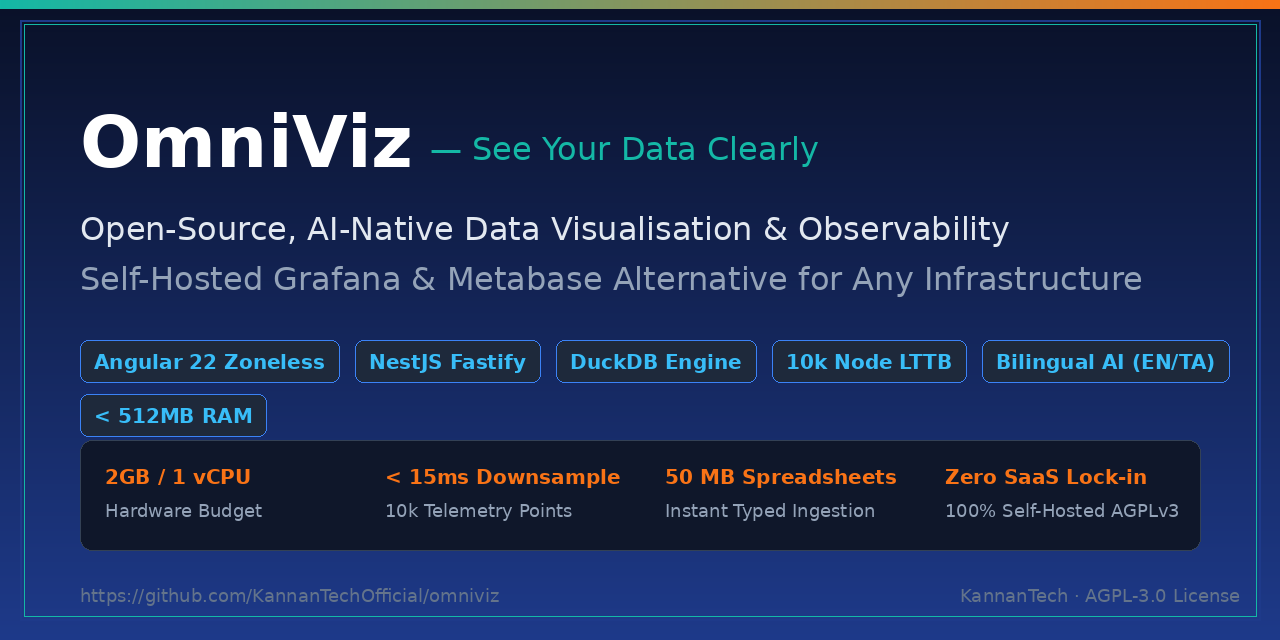
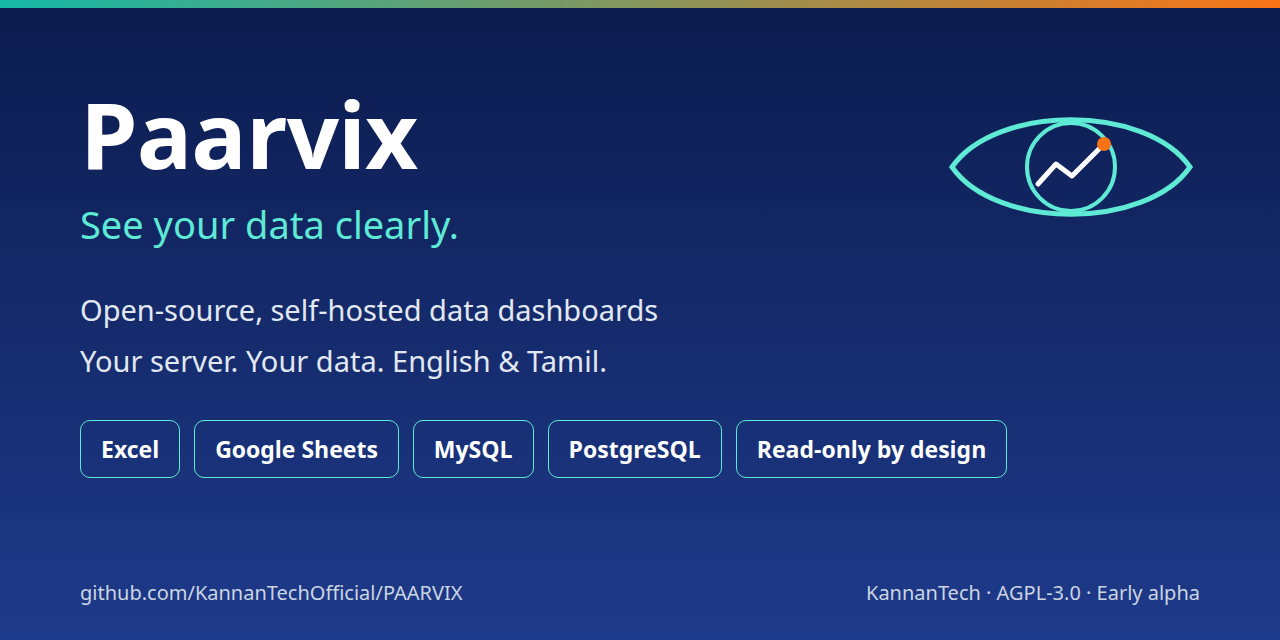
docs: use the Paarvix name and repository address

diff --git a/README.md b/README.md
@@ -1,10 +1,10 @@
 <div align="center">
 
-<img src=".github/assets/social-preview.png" alt="OmniViz — Open-Source AI-Native Analytics & Observability Platform" width="100%">
+<img src=".github/assets/social-preview.png" alt="Paarvix — open-source, self-hosted data dashboards" width="100%">
 
-# OmniViz
+# Paarvix
 
-### See your data clearly. (Powered by Paarvix Core)
+### See your data clearly.
 
 **Open-source, AI-native data visualisation, analytics, and observability platform.**  
 Self-hosted Grafana & Metabase alternative. Connect Excel, Google Sheets, MySQL, MariaDB, or PostgreSQL on your own server with zero data team, zero cloud lock-in, and zero per-user fees.
@@ -13,12 +13,12 @@ Self-hosted Grafana & Metabase alternative. Connect Excel, Google Sheets, MySQL,
 [![Status: alpha](https://img.shields.io/badge/status-alpha-orange.svg)](docs/roadmap.md)
 [![Built with Angular](https://img.shields.io/badge/Angular-22-dd0031.svg)](https://angular.dev)
 [![Built with NestJS](https://img.shields.io/badge/NestJS-12-e0234e.svg)](https://nestjs.com)
-[![GitHub Discussions](https://img.shields.io/badge/Discussions-Join-teal.svg)](https://github.com/KannanTechOfficial/omniviz/discussions)
-[![Wiki Documentation](https://img.shields.io/badge/Docs-Wiki-purple.svg)](https://github.com/KannanTechOfficial/omniviz/wiki)
+[![GitHub Discussions](https://img.shields.io/badge/Discussions-Join-teal.svg)](https://github.com/KannanTechOfficial/PAARVIX/discussions)
+[![Wiki Documentation](https://img.shields.io/badge/Docs-Wiki-purple.svg)](https://github.com/KannanTechOfficial/PAARVIX/wiki)
 
-[Getting Started](docs/wiki/Getting-Started.md) · [Architecture](docs/wiki/Architecture.md) · [Observability Engine](docs/wiki/Observability-and-Scaling.md) · [Data Sources](docs/wiki/Data-Sources-and-Connectors.md) · [Wiki](https://github.com/KannanTechOfficial/omniviz/wiki) · [Discussions](https://github.com/KannanTechOfficial/omniviz/discussions)
+[Getting Started](docs/wiki/Getting-Started.md) · [Architecture](docs/wiki/Architecture.md) · [Observability Engine](docs/wiki/Observability-and-Scaling.md) · [Data Sources](docs/wiki/Data-Sources-and-Connectors.md) · [Wiki](https://github.com/KannanTechOfficial/PAARVIX/wiki) · [Discussions](https://github.com/KannanTechOfficial/PAARVIX/discussions)
 
-![OmniViz Data Sources preview](docs/assets/data-sources.png)
+![Paarvix Data Sources preview](docs/assets/data-sources.png)
 
 </div>
 
@@ -26,9 +26,9 @@ Self-hosted Grafana & Metabase alternative. Connect Excel, Google Sheets, MySQL,
 
 ---
 
-## What is OmniViz?
+## What is Paarvix?
 
-OmniViz is an open-source, AI-native analytics and observability platform designed to give organisations instant clarity over their operational data and telemetry. Powered by the **Paarvix Core** engine (*Paarvai* / பார்வை, meaning vision in Tamil), OmniViz eliminates expensive BI and monitoring stacks by running fully on your own infrastructure on as little as **2 GB RAM and 1 vCPU**.
+Paarvix is an open-source, AI-native analytics and observability platform designed to give organisations instant clarity over their operational data and telemetry. Powered by the **Paarvix Core** engine (*Paarvai* / பார்வை, meaning vision in Tamil), Paarvix eliminates expensive BI and monitoring stacks by running fully on your own infrastructure on as little as **2 GB RAM and 1 vCPU**.
 
 It is engineered for both non-technical decision makers (principals, shop owners, hospital admins) and engineers needing real-time cluster telemetry without JVM bloat or SaaS pricing.
 
@@ -59,9 +59,9 @@ It is engineered for both non-technical decision makers (principals, shop owners
 
 ---
 
-## OmniViz vs Other Platforms
+## Paarvix vs Other Platforms
 
-| Feature | OmniViz | Grafana | Metabase | Apache Superset |
+| Feature | Paarvix | Grafana | Metabase | Apache Superset |
 |:---|:---:|:---:|:---:|:---:|
 | **Server Footprint** | **< 512 MB RAM** | Moderate | Heavy (JVM 2GB+) | Heavy (Python 2GB+) |
 | **Setup Time** | **< 2 minutes** | 30+ minutes | 15 minutes | 45+ minutes |
@@ -76,11 +76,11 @@ It is engineered for both non-technical decision makers (principals, shop owners
 
 ## Quick Start (Docker)
 
-Run OmniViz locally or on any cloud server:
+Run Paarvix locally or on any cloud server:
 
 ```bash
-git clone https://github.com/KannanTechOfficial/omniviz.git
-cd omniviz
+git clone https://github.com/KannanTechOfficial/PAARVIX.git
+cd PAARVIX
 ./install.sh
 ```
 
@@ -99,8 +99,8 @@ Manage lifecycle:
 
 ```bash
 # Clone the repository
-git clone https://github.com/KannanTechOfficial/omniviz.git
-cd omniviz
+git clone https://github.com/KannanTechOfficial/PAARVIX.git
+cd PAARVIX
 
 # Install dependencies
 npm install
@@ -120,7 +120,7 @@ npm run dev:web
 
 ## Documentation & Wiki
 
-Comprehensive technical guides are available in the [OmniViz Wiki](https://github.com/KannanTechOfficial/omniviz/wiki) and repository:
+Comprehensive technical guides are available in the [Paarvix Wiki](https://github.com/KannanTechOfficial/PAARVIX/wiki) and repository:
 - [Architecture & Columnar DataFrames](docs/wiki/Architecture.md)
 - [Data Sources & Security Sandboxing](docs/wiki/Data-Sources-and-Connectors.md)
 - [10,000-Node Observability & Downsampling](docs/wiki/Observability-and-Scaling.md)
@@ -131,14 +131,14 @@ Comprehensive technical guides are available in the [OmniViz Wiki](https://githu
 
 ## Community & Contributing
 
-- Join discussions and feature ideas on [GitHub Discussions](https://github.com/KannanTechOfficial/omniviz/discussions).
-- Report bugs and security considerations via [Issues](https://github.com/KannanTechOfficial/omniviz/issues) and [SECURITY.md](SECURITY.md).
+- Join discussions and feature ideas on [GitHub Discussions](https://github.com/KannanTechOfficial/PAARVIX/discussions).
+- Report bugs and security considerations via [Issues](https://github.com/KannanTechOfficial/PAARVIX/issues) and [SECURITY.md](SECURITY.md).
 - Read [CONTRIBUTING.md](CONTRIBUTING.md) and [CODE_OF_CONDUCT.md](CODE_OF_CONDUCT.md) before submitting Pull Requests.
 
 ---
 
 ## License
 
-OmniViz is licensed under the [GNU Affero General Public License v3.0 (AGPLv3)](LICENSE).  
+Paarvix is licensed under the [GNU Affero General Public License v3.0 (AGPLv3)](LICENSE).  
 Copyright (C) 2026 Kannan / KannanTech (https://kannantech.com).  
 Commercial licensing and enterprise support: [paarvix@kannantech.com](mailto:paarvix@kannantech.com).

diff --git a/docs/wiki/Home.md b/docs/wiki/Home.md
@@ -1,8 +1,8 @@
-# Welcome to the OmniViz Wiki
+# Welcome to the Paarvix Wiki
 
-> **OmniViz** (powered by Paarvix core by [KannanTech](https://kannantech.com)) is an open-source, AI-native real-time data visualisation, analytics, and observability platform.
+> **Paarvix** by [KannanTech](https://kannantech.com) is an open-source, AI-native real-time data visualisation, analytics, and observability platform.
 
-OmniViz is designed as a modern, lightweight, self-hosted alternative to Grafana and Metabase. It empowers small businesses, colleges, factories, and growing organizations to connect their existing data (Excel, Google Sheets, MySQL, PostgreSQL) and observe complex infrastructure (up to 10,000+ Linux & Kubernetes nodes) without needing an expensive dedicated data team or per-user licensing fees.
+Paarvix is designed as a modern, lightweight, self-hosted alternative to Grafana and Metabase. It empowers small businesses, colleges, factories, and growing organizations to connect their existing data (Excel, Google Sheets, MySQL, PostgreSQL) and observe complex infrastructure (up to 10,000+ Linux & Kubernetes nodes) without needing an expensive dedicated data team or per-user licensing fees.
 
 ---
 
@@ -28,8 +28,8 @@ OmniViz is designed as a modern, lightweight, self-hosted alternative to Grafana
 
 ## 🔗 Useful Links
 
-* **Source Code:** [GitHub Repository](https://github.com/KannanTechOfficial/omniviz)
+* **Source Code:** [GitHub Repository](https://github.com/KannanTechOfficial/PAARVIX)
 * **Default Branch:** `Canary`
-* **Discussions:** [GitHub Discussions](https://github.com/KannanTechOfficial/omniviz/discussions)
-* **Issue Tracker:** [Bug Reports & Feature Requests](https://github.com/KannanTechOfficial/omniviz/issues)
+* **Discussions:** [GitHub Discussions](https://github.com/KannanTechOfficial/PAARVIX/discussions)
+* **Issue Tracker:** [Bug Reports & Feature Requests](https://github.com/KannanTechOfficial/PAARVIX/issues)
 

diff --git a/docs/wiki/Observability-and-Scaling.md b/docs/wiki/Observability-and-Scaling.md
@@ -1,6 +1,6 @@
 # Observability & 10,000-Node Scale
 
-OmniViz features an enterprise-grade observability engine designed to monitor large-scale distributed infrastructure (10,000+ Linux servers and Kubernetes worker nodes) without the massive operational complexity and RAM requirements of legacy observability stacks.
+Paarvix features an enterprise-grade observability engine designed to monitor large-scale distributed infrastructure (10,000+ Linux servers and Kubernetes worker nodes) without the massive operational complexity and RAM requirements of legacy observability stacks.
 
 ---
 
@@ -36,7 +36,7 @@ When viewing time-series data for a node over 24 hours, thousands of raw data po
 
 ## 🤖 Bilingual AI Observability Copilot
 
-OmniViz includes an AI-native root cause engine providing executive summaries and anomaly diagnoses in **English and Tamil (தமிழ்)**:
+Paarvix includes an AI-native root cause engine providing executive summaries and anomaly diagnoses in **English and Tamil (தமிழ்)**:
 
 * **Containerd Memory Leak (`node-4081`, US East):** Detects monotonically increasing RSS with swap thrashing at 2.1 GB/s. Recommends: `kubectl drain node-4081`.
 * **NVMe Storage Saturation (`node-1209`, Mumbai):** Flags uncompacted Kafka write queues at 96.5% disk fullness before node goes into `DiskPressure`.

diff --git a/.github/ISSUE_TEMPLATE.md b/.github/ISSUE_TEMPLATE.md
@@ -1,13 +1,13 @@
-# OmniViz Issue Template
+# Paarvix Issue Template
 
-Thank you for reporting an issue or suggesting an enhancement for **OmniViz**!
+Thank you for reporting an issue or suggesting an enhancement for **Paarvix**!
 
 Please use one of our specific issue forms if possible:
-- [Bug Report](https://github.com/KannanTechOfficial/omniviz/issues/new?template=bug_report.yml)
-- [Feature Request](https://github.com/KannanTechOfficial/omniviz/issues/new?template=feature_request.yml)
+- [Bug Report](https://github.com/KannanTechOfficial/PAARVIX/issues/new?template=bug_report.yml)
+- [Feature Request](https://github.com/KannanTechOfficial/PAARVIX/issues/new?template=feature_request.yml)
 
 For questions, discussions, or community help:
-- [GitHub Discussions](https://github.com/KannanTechOfficial/omniviz/discussions)
+- [GitHub Discussions](https://github.com/KannanTechOfficial/PAARVIX/discussions)
 
 ---
 
@@ -23,7 +23,7 @@ For questions, discussions, or community help:
 <!-- What did you expect to happen? -->
 
 ### Environment
-- **OmniViz Version**: (e.g. 0.1.0-alpha)
+- **Paarvix Version**: (e.g. 0.1.0-alpha)
 - **OS**: (Linux, macOS, Windows)
 - **Browser**: (Chrome, Firefox, Safari)
 - **Node.js**: (v20+)

diff --git a/docs/wiki/Architecture.md b/docs/wiki/Architecture.md
@@ -1,6 +1,6 @@
-# OmniViz System Architecture
+# Paarvix System Architecture
 
-OmniViz is engineered from the ground up as a **modular monolith** optimized for sub-second interactions, zero GC thrashing, and low hardware resource consumption.
+Paarvix is engineered from the ground up as a **modular monolith** optimized for sub-second interactions, zero GC thrashing, and low hardware resource consumption.
 
 ---
 
@@ -21,7 +21,7 @@ OmniViz is engineered from the ground up as a **modular monolith** optimized for
 ## 🏗 Monorepo Structure
 
 ```
-omniviz/
+paarvix/
 ├── apps/
 │   ├── api/             # NestJS Fastify API Gateway
 │   └── web/             # Angular 22 Single Page Application
@@ -37,7 +37,7 @@ omniviz/
 
 ## ⚡ Columnar DataFrame Architecture
 
-Unlike standard JSON arrays (`Array<Record<string, unknown>>`) which allocate millions of small heap objects and cause garbage collection stutter, OmniViz uses typed columnar vectors:
+Unlike standard JSON arrays (`Array<Record<string, unknown>>`) which allocate millions of small heap objects and cause garbage collection stutter, Paarvix uses typed columnar vectors:
 
 ```ts
 export interface Field<T = any> {

diff --git a/docs/wiki/_Sidebar.md b/docs/wiki/_Sidebar.md
@@ -1,4 +1,4 @@
-### OmniViz Documentation
+### Paarvix Documentation
 * **[Home](Home)**
 * **[Getting Started](Getting-Started)**
 * **[System Architecture](Architecture)**
@@ -8,7 +8,7 @@
 
 ---
 ### Community & Support
-* [GitHub Repository](https://github.com/KannanTechOfficial/omniviz)
-* [Discussions](https://github.com/KannanTechOfficial/omniviz/discussions)
-* [Report an Issue](https://github.com/KannanTechOfficial/omniviz/issues)
+* [GitHub Repository](https://github.com/KannanTechOfficial/PAARVIX)
+* [Discussions](https://github.com/KannanTechOfficial/PAARVIX/discussions)
+* [Report an Issue](https://github.com/KannanTechOfficial/PAARVIX/issues)
 

diff --git a/docs/wiki/Security-and-Permissions.md b/docs/wiki/Security-and-Permissions.md
@@ -1,6 +1,6 @@
 # Security & Permissions
 
-Security and data ownership are core architectural principles in OmniViz.
+Security and data ownership are core architectural principles in Paarvix.
 
 ---
 
@@ -20,5 +20,5 @@ Security and data ownership are core architectural principles in OmniViz.
    * User file imports run in memory-capped sub-processes.
    * Query limits (10,000 rows max, 30s timeout) prevent Denial of Service.
 5. **No Telemetry / Egress:**
-   * Your data remains strictly on your server. OmniViz does not send phone-home telemetry.
+   * Your data remains strictly on your server. Paarvix does not send phone-home telemetry.
 

diff --git a/docs/wiki/Getting-Started.md b/docs/wiki/Getting-Started.md
@@ -1,6 +1,6 @@
-# Getting Started with OmniViz
+# Getting Started with Paarvix
 
-Deploy OmniViz in less than 2 minutes using Docker Compose or native scripts.
+Deploy Paarvix in less than 2 minutes using Docker Compose or native scripts.
 
 ---
 
@@ -20,8 +20,8 @@ Deploy OmniViz in less than 2 minutes using Docker Compose or native scripts.
 Clone the repository and run the automated installation script:
 
 ```bash
-git clone -b Canary https://github.com/KannanTechOfficial/omniviz.git
-cd omniviz
+git clone -b Canary https://github.com/KannanTechOfficial/PAARVIX.git
+cd PAARVIX
 ./install.sh
 ```
 

diff --git a/docs/wiki/_Footer.md b/docs/wiki/_Footer.md
@@ -1,3 +1,3 @@
 ---
-*OmniViz — See your data clearly. Developed by [KannanTech](https://kannantech.com). Licensed under AGPLv3.*
+*Paarvix — See your data clearly. Developed by [KannanTech](https://kannantech.com). Licensed under AGPLv3.*
 

diff --git a/docs/wiki/Data-Sources-and-Connectors.md b/docs/wiki/Data-Sources-and-Connectors.md
@@ -1,6 +1,6 @@
 # Data Sources & Connectors
 
-OmniViz connects to your existing business data wherever it lives.
+Paarvix connects to your existing business data wherever it lives.
 
 ---
 
